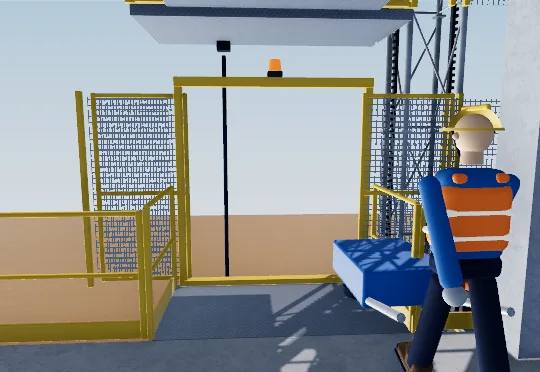
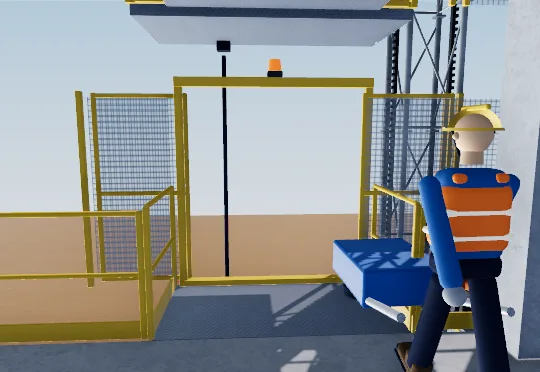
v19.3: 리프트 철망이 멀리서 사라지던 문제 고침 — 철망을 옅은 바탕+철선으로, 지도용 리프트도 철망 판·격자 마스트로

diff --git a/js/learn/models/constructionHoist.js b/js/learn/models/constructionHoist.js
@@ -17,15 +17,17 @@ export const HOIST = { cageW: 3.0, cageD: 1.4, cageH: 2.2, mast: 0.65, section: 
 const tok = (n) => getComputedStyle(document.documentElement).getPropertyValue(n).trim() || '#888888';
 let meshTex = null;
 // 철망: 가는 격자 알파 텍스처 (속이 비쳐 보이게)
+const meshMats = new Map();
 function meshMat(THREE, M, key = 'steel', cell = 0.06) {
+  if (meshMats.has(key) && meshMats.get(key).userData.M === M) return meshMats.get(key);
   if (!meshTex) {
     const c = document.createElement('canvas'); c.width = c.height = 64; const g = c.getContext('2d');
-    g.fillStyle = '#000'; g.fillRect(0, 0, 64, 64); g.strokeStyle = '#fff'; g.lineWidth = 5;
+    g.fillStyle = 'rgb(56,56,56)'; g.fillRect(0, 0, 64, 64); g.strokeStyle = 'rgb(255,255,255)'; g.lineWidth = 6; // 바탕 알파 약 0.22 + 철선 1.0
     for (const p of [2, 34]) { g.beginPath(); g.moveTo(p, 0); g.lineTo(p, 64); g.stroke(); g.beginPath(); g.moveTo(0, p); g.lineTo(64, p); g.stroke(); }
     meshTex = new THREE.CanvasTexture(c); meshTex.wrapS = meshTex.wrapT = THREE.RepeatWrapping;
   }
-  const base = M(key); const m = new THREE.MeshStandardMaterial({ color: base.color.clone(), roughness: 0.5, metalness: 0.55, alphaMap: meshTex, alphaTest: 0.45, side: THREE.DoubleSide });
-  m.userData = { kind: base.userData?.kind || 'steel', meshCell: cell }; return m;
+  const base = M(key); const m = new THREE.MeshStandardMaterial({ color: base.color.clone(), roughness: 0.5, metalness: 0.45, alphaMap: meshTex, transparent: true, alphaTest: 0.05, depthWrite: false, side: THREE.DoubleSide });
+  m.userData = { kind: base.userData?.kind || 'steel', meshCell: cell, M }; meshMats.set(key, m); return m;
 }
 // 철망 판 하나 (w × h, 수직, z 쪽을 향함) — 셀 크기를 판 크기에 맞춤
 function meshPanel(THREE, M, w, h, key) {
@@ -57,7 +59,7 @@ export function makeCage(THREE, M, o = {}, RB = null) {
     // 철망 벽: 바깥쪽 옆면·뒤 위쪽
     const sideMesh = meshPanel(THREE, M, D - 0.08, Hh - 0.38, ST); sideMesh.rotation.y = Math.PI / 2; sideMesh.position.set(-side * W / 2, 0.32 + (Hh - 0.38) / 2, 0); cage.add(sideMesh);
     const innerMesh = meshPanel(THREE, M, D - 0.08, Hh - 0.1, ST); innerMesh.rotation.y = Math.PI / 2; innerMesh.position.set(side * W / 2, (Hh - 0.1) / 2 + 0.02, 0); cage.add(innerMesh); // 마스트 쪽
-  } else { box(0.02, Hh - 0.4, D, M(ST, { transparent: true, opacity: 0.45 }), -side * W / 2, 0.32, 0, cage); }
+  } else { for (const sx of [-side, side]) { const pm = meshPanel(THREE, M, D, Hh - 0.32, ST); pm.rotation.y = Math.PI / 2; pm.position.set(sx * W / 2, 0.32 + (Hh - 0.32) / 2, 0); cage.add(pm); } }
   // 지붕판 + 지붕 위 난간(110cm 상부난간대 + 중간난간대, 별표 3 제16호)
   box(W + 0.06, 0.06, D + 0.06, 'steel', 0, Hh, 0, cage);
   const roof = node('cage_roof_rail', cage);
@@ -70,7 +72,7 @@ export function makeCage(THREE, M, o = {}, RB = null) {
     for (const x of [-fw / 2, fw / 2]) box(0.05, fh, 0.05, FR, x, 0.02, 0, d);
     for (const y of [0.02, fh - 0.03, 1.0]) box(fw, 0.05, 0.05, FR, 0, y, 0, d);
     if (lod === 'near') { const p = meshPanel(THREE, M, fw - 0.06, fh - 0.08, ST); p.position.set(0, fh / 2 + 0.02, 0); d.add(p); }
-    else box(fw, fh, 0.02, M(ST, { transparent: true, opacity: 0.45 }), 0, 0.02, 0, d);
+    else { const p = meshPanel(THREE, M, fw, fh, ST); p.position.set(0, fh / 2 + 0.02, 0); d.add(p); }
     return d;
   };
   // 앞문(층 쪽): 경사로식 — 아래 경첩, 열리면 바깥으로 눕혀져 층 발판 위에 걸치는 발판이 됨 (제조사 "gate and ramp" 방식, 모양 참고)
@@ -109,7 +111,7 @@ export function makeLandingGate(THREE, M, o = {}, RB = null) {
     for (const x of [-lw / 2, lw / 2]) box(0.045, H - 0.05, 0.045, FR, x, 0.04, 0, l);
     for (const y of [0.04, H - 0.06, 1.0]) box(lw, 0.045, 0.045, FR, 0, y, 0, l);
     if (lod === 'near') { const p = meshPanel(THREE, M, lw - 0.05, H - 0.12, 'steel'); p.position.set(0, H / 2, 0); l.add(p); }
-    else box(lw, H - 0.1, 0.02, M('steel', { transparent: true, opacity: 0.45 }), 0, 0.05, 0, l);
+    else { const p = meshPanel(THREE, M, lw, H - 0.1, 'steel'); p.position.set(0, H / 2, 0); l.add(p); }
   };
   leaf(-1); leaf(1);
   // 열린 문짝이 밀려 들어갈 옆 고정 철망 (문틀 밖)
@@ -147,6 +149,7 @@ export function makeConstructionHoist(THREE, M, opts = {}, RB = null) {
     if (lod === 'near') for (const [x, z] of cs) box(0.13, 0.025, 0.13, GALV, x, y0 - 0.012, mastZ + z, mast); // 섹션 이음판(플랜지)
   }
   box(m + 0.1, 0.05, m + 0.1, GALV, 0, top, mastZ, mast); // 최상단 덮개
+  if (lod === 'far') for (let f = 0; f < 4; f++) { const p = meshPanel(THREE, M, m, top - 0.2, 'steel:--art-dark'); p.rotation.y = (f * Math.PI) / 2; p.position.set(Math.sin(f * Math.PI / 2) * m / 2, 0.15 + (top - 0.2) / 2, mastZ + Math.cos(f * Math.PI / 2) * m / 2); mast.add(p); }
   // 랙: 운반구 쪽 면(±x)에 세로 톱니 막대
   const rack = node('rack', root);
   for (const s of sides) {
@@ -165,7 +168,7 @@ export function makeConstructionHoist(THREE, M, opts = {}, RB = null) {
   const fence = (a, b, skipMid) => { const len = Math.hypot(b[0] - a[0], b[1] - a[1]), n = Math.max(1, Math.round(len / 2)); for (let i = 0; i <= n; i++) box(0.06, eH, 0.06, 'paint:yellow', a[0] + (b[0] - a[0]) * i / n, 0, a[1] + (b[1] - a[1]) * i / n, enc);
     for (let i = 0; i < n; i++) { if (skipMid && i === Math.floor(n / 2)) { const xa = a[0] + (b[0] - a[0]) * i / n, xb = a[0] + (b[0] - a[0]) * (i + 1) / n; encDoor = { x0: xa, x1: xb, z: a[1] }; continue; } const x0 = a[0] + (b[0] - a[0]) * i / n, z0 = a[1] + (b[1] - a[1]) * i / n, x1 = a[0] + (b[0] - a[0]) * (i + 1) / n, z1 = a[1] + (b[1] - a[1]) * (i + 1) / n, sl = Math.hypot(x1 - x0, z1 - z0);
       if (lod === 'near') { const p = meshPanel(THREE, M, sl - 0.06, eH - 0.12, 'steel'); p.position.set((x0 + x1) / 2, eH / 2 + 0.04, (z0 + z1) / 2); p.rotation.y = -Math.atan2(z1 - z0, x1 - x0); enc.add(p); }
-      else { const p = box(sl - 0.06, eH - 0.1, 0.02, M('steel', { transparent: true, opacity: 0.4 }), (x0 + x1) / 2, 0.05, (z0 + z1) / 2, enc); p.rotation.y = -Math.atan2(z1 - z0, x1 - x0); }
+      else { const p = meshPanel(THREE, M, sl - 0.06, eH - 0.1, 'steel'); p.position.set((x0 + x1) / 2, eH / 2, (z0 + z1) / 2); p.rotation.y = -Math.atan2(z1 - z0, x1 - x0); enc.add(p); }
       if (lod === 'near') rod([x0, eH, z0], [x1, eH, z1], 0.025, 'paint:yellow', enc); } };
   fence([-ex / 2, ez1], [ex / 2, ez1], true); fence([-ex / 2, ez0], [-ex / 2, ez1]); fence([ex / 2, ez0], [ex / 2, ez1]);
   // 방호울 출입문 (철망 + 노랑 테, 닫힘). 장면에서 열고 닫을 때는 이 노드를 숨기고 makeEnclosureDoor 로 따로 그림

diff --git a/sw.js b/sw.js
@@ -1,5 +1,5 @@
 // 첫 삽 서비스 워커 — 앱 파일은 미리 저장(오프라인 실행), 글꼴은 처음 받을 때 저장, 날씨·Firebase는 항상 네트워크
-const VERSION = 'cheotsap-v19';
+const VERSION = 'cheotsap-v19.3';
 const CORE = [
   './', './index.html', './game.html', './css/tokens.css', './css/learn.css', './js/learn/app.js', './js/learn/mascot.js', './js/learn/site3d.js', './js/learn/scene3d.js', './js/learn/props3d.js', './data/prerender.json',
   // v18: 재질 세트·근로자 모델·베벨·CC0 모델·질감·HDRI
